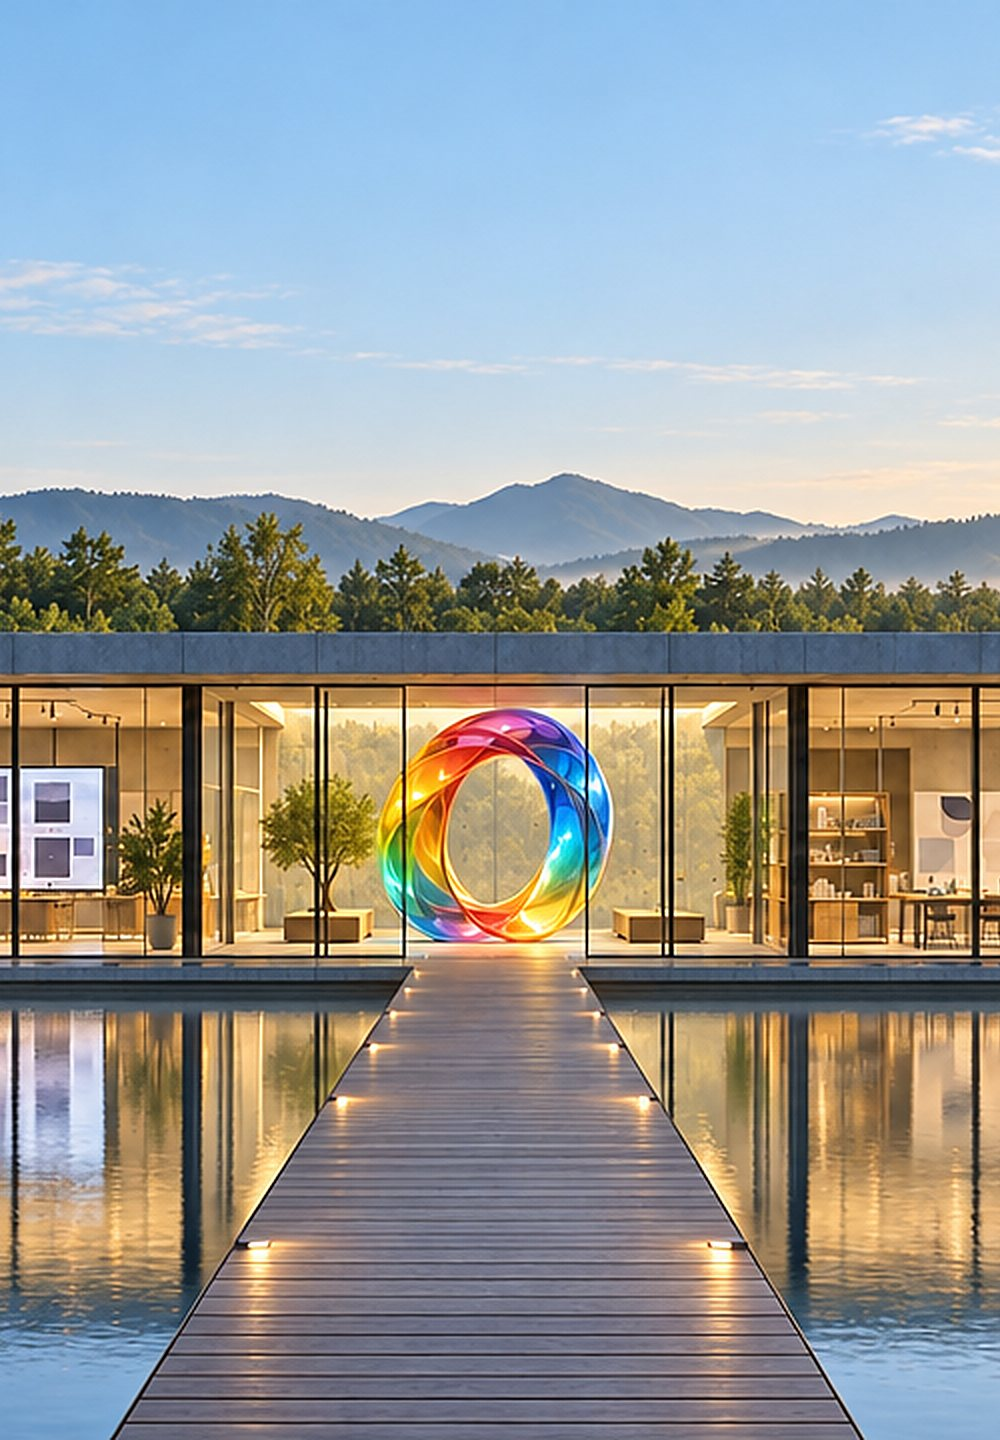
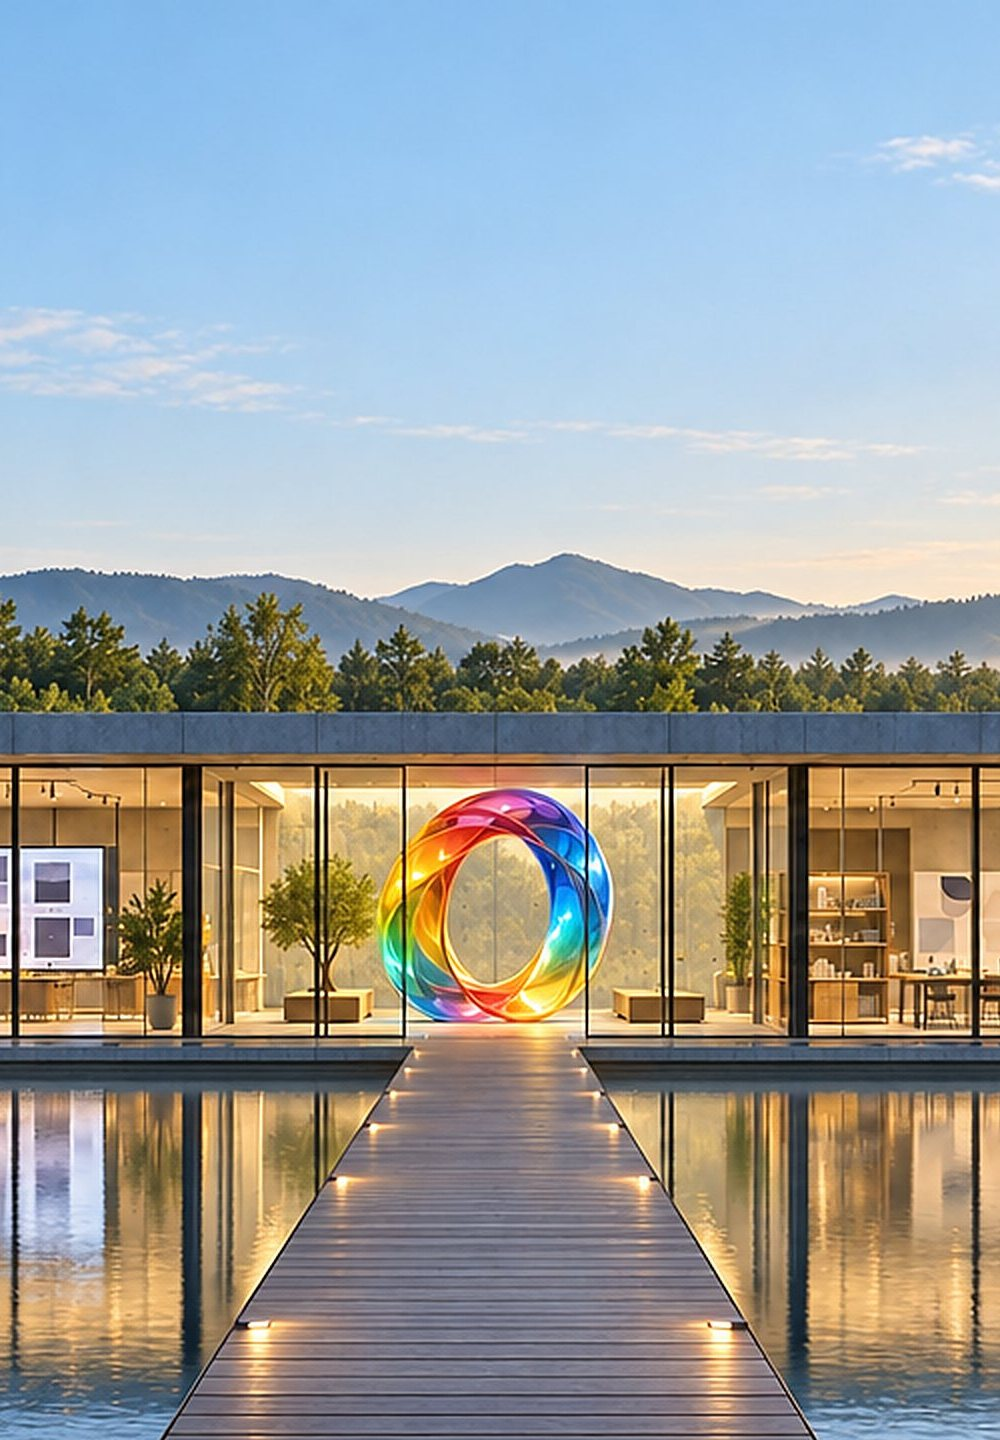
Home hero by day: more sky above the hills on phones, white tour dots
Claude-Session: https://claude.ai/code/session_011BdSE2fEeiEv9ZgoYmWAPn

diff --git a/src/components/sections/Hero.tsx b/src/components/sections/Hero.tsx
@@ -137,7 +137,8 @@ export function Hero({
                   key={i}
                   className={cn(
                     "block size-[7px] rounded-full",
-                    i === 0 ? (day ? "bg-ink ring-4 ring-ink/20" : "bg-white ring-4 ring-white/20") : day ? "bg-ink/35" : "bg-white/35",
+                    // White in both themes: by day they lie over the trees.
+                    i === 0 ? "bg-white ring-4 ring-white/25" : day ? "bg-white/60 dark:bg-white/35" : "bg-white/35",
                   )}
                 />
               ))}
